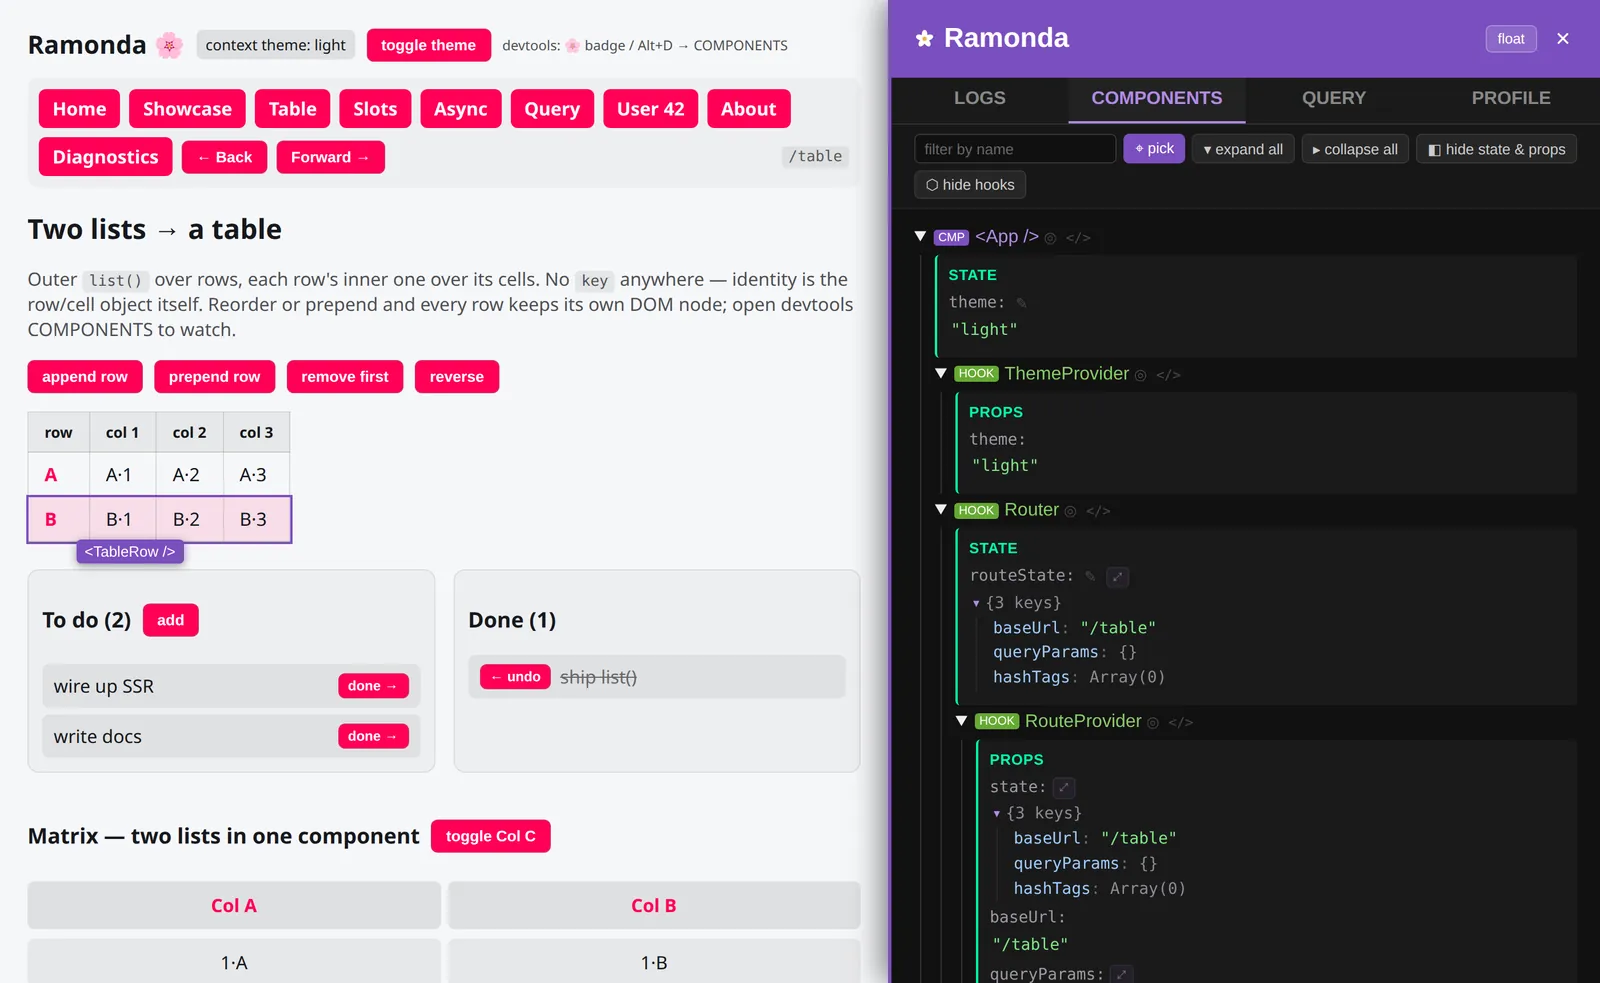
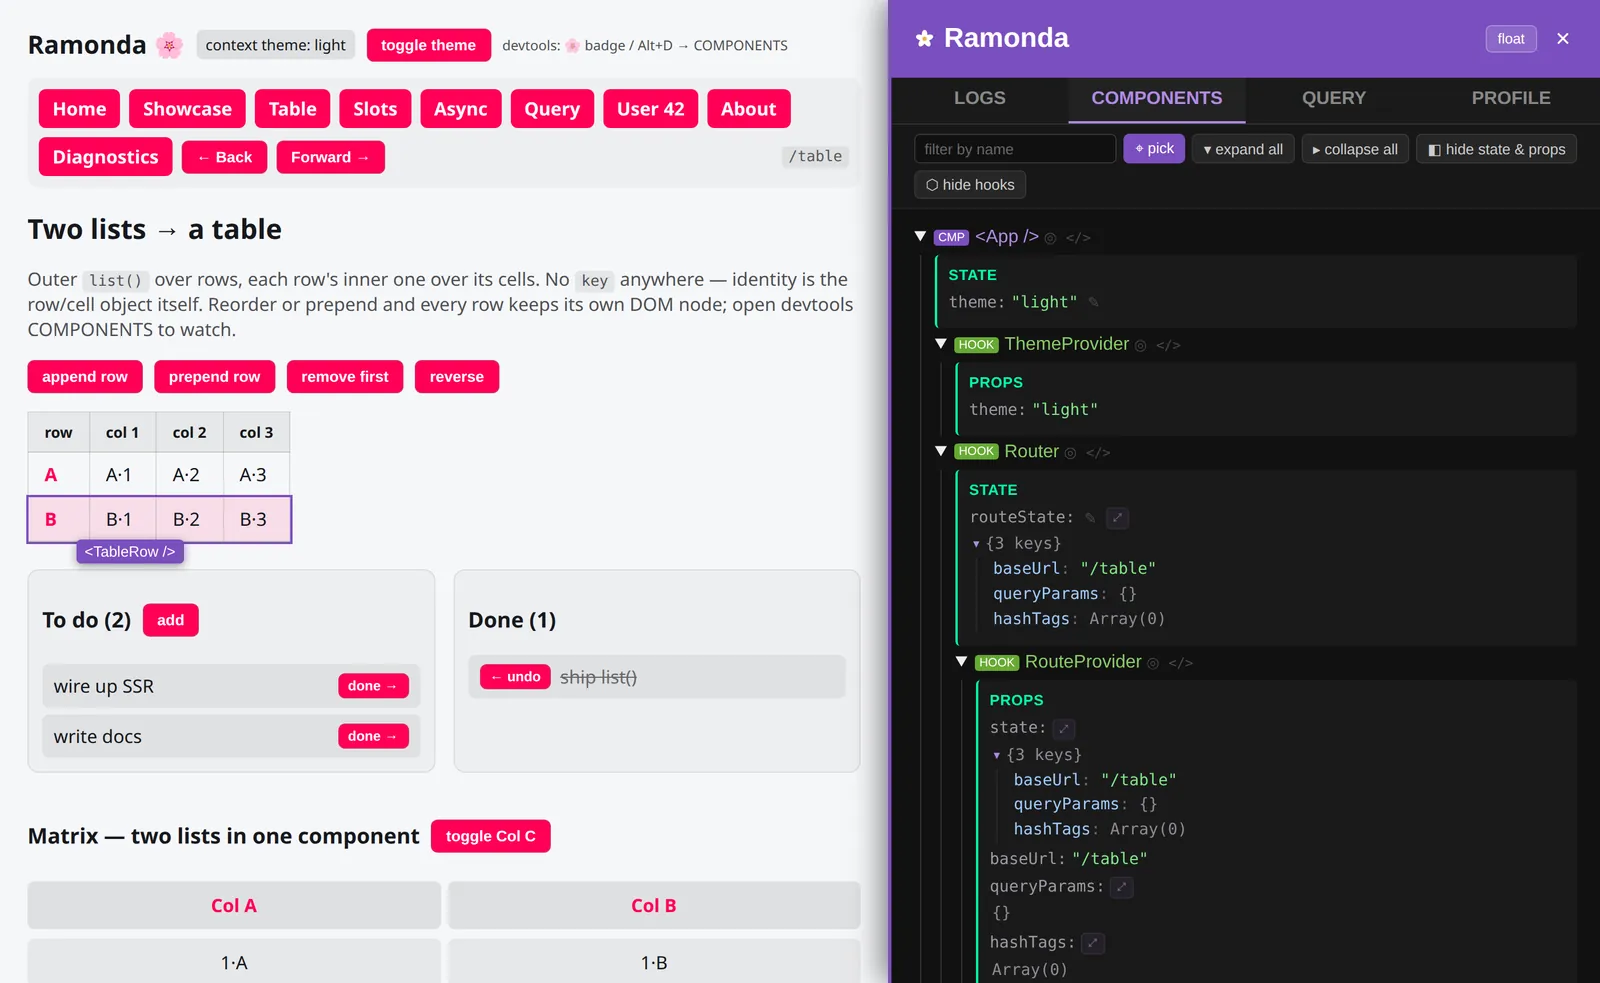
feat(devtools): a value the tree cannot open sits on one line with its key
Reported: a plain key and value looked odd. It was: every value was a key heading with a block underneath,
which was reasonable while every value was a tree and read as twelve rows for six fields once most of them
were `3` and `"ada"`.

The test is not "is it a primitive" but does the TREE render it as a leaf — the same question the row is
asking, since only an array or a plain object gets a disclosure and children. The first version asked
about primitives and left `client: QueryClient` on two lines for a one-word value, which is the shape the
change was fixing; a Date, a Map, a function and a class instance are all one line now.

`.sv` stays in both shapes, because it is what the value-patch path looks up by id and what the editor
replaces — only where it sits changes, and there is a test that patches and edits a one-line row to hold
that.

Screenshots regenerated, which is the point of generating them: `npm run shots`, and the pictures on
/devtools match the panel again.

Changed region(s): [[0.5625, 0.3052, 0.75, 1.0]]

diff --git a/packages/devtools/src/index.ts b/packages/devtools/src/index.ts
@@ -152,6 +152,21 @@ const isJsonLike = (value: unknown): boolean => {
   }
 };
 
+/**
+ * Whether a value belongs on one line with its key.
+ *
+ * The test is not "is it a primitive" but **"does the tree render it as a leaf"**, which is the same
+ * question the row is asking: only an array or a plain object gets a disclosure and children, so only
+ * those need a block. A function is `ƒ()`, a `Date` is one line, and a class instance is its name — the
+ * first version of this called those "objects" and gave `client: QueryClient` two lines for a one-word
+ * value, which is the shape the whole change was fixing.
+ */
+const rendersAsLeaf = (value: unknown): boolean => {
+  if (Array.isArray(value)) return false;
+  if (typeof value !== "object" || value === null) return true;
+  return !isPlainRecord(value);
+};
+
 const isPlainRecord = (value: object): boolean => {
   const proto = Object.getPrototypeOf(value);
   return proto === Object.prototype || proto === null;
@@ -707,6 +722,11 @@ class RamondaDevTools extends HTMLElement {
         .state-title { color: #00ffaa; margin-bottom: 4px; font-weight: bold; font-size: 13px;
                        text-transform: uppercase; letter-spacing: .4px; }
         .state-row { margin: 2px 0; }
+        /* One line for a scalar: the value sits with its key, and its buttons follow the value rather
+           than the key, so a row reads key, value, then controls. */
+        .state-row.one-line { display: flex; align-items: baseline; gap: 4px; }
+        .state-row.one-line .sv { max-height: none; overflow: visible; padding: 0; min-width: 0; }
+        .state-row.one-line .jv-row { display: inline; }
         .state-head { display: flex; gap: 4px; align-items: center; }
         .state-row .sk { color: #9a9aa2; flex-shrink: 0; font-family: ui-monospace, Menlo, monospace;
                          font-size: 14px; }
@@ -2176,13 +2196,29 @@ class RamondaDevTools extends HTMLElement {
             )}" data-edit-vid="${escapeHtml(vid)}" title="edit ${escapeHtml(k)}">✎</button>`
           : "";
 
-        return `<div class="state-row">
-          <div class="state-head"><span class="sk">${escapeHtml(k)}:</span>${edit}${this.fullViewButton(
-            vid,
-            value,
-          )}</div>
-          <div class="sv" data-sv="${escapeHtml(vid)}">${renderJsonHtml(value, INLINE)}</div>
-        </div>`;
+        /**
+         * A scalar sits on the SAME line as its key; only a container gets a block of its own.
+         *
+         * Every value used to be a heading with a body underneath, which was reasonable while every
+         * value was a tree and looked wrong the moment most of them were `3` and `"ada"` — two lines
+         * each, and a state block of six fields reading as twelve rows of mostly nothing.
+         *
+         * The `.sv` element stays in both shapes, because it is what the patch path looks up by id and
+         * what an editor replaces — only where it sits changes.
+         */
+        const inline = rendersAsLeaf(value);
+        const buttons = `${edit}${this.fullViewButton(vid, value)}`;
+
+        return inline
+          ? `<div class="state-row one-line">
+              <span class="sk">${escapeHtml(k)}:</span>
+              <span class="sv" data-sv="${escapeHtml(vid)}">${renderJsonHtml(value, INLINE)}</span>
+              ${buttons}
+            </div>`
+          : `<div class="state-row">
+              <div class="state-head"><span class="sk">${escapeHtml(k)}:</span>${buttons}</div>
+              <div class="sv" data-sv="${escapeHtml(vid)}">${renderJsonHtml(value, INLINE)}</div>
+            </div>`;
       })
       .join("");
     const titleHtml = title ? `<div class="state-title">${title}</div>` : "";

diff --git a/packages/devtools/src/__tests__/panel.test.ts b/packages/devtools/src/__tests__/panel.test.ts
@@ -1951,3 +1951,69 @@ describe("the profiler tab", () => {
     }
   });
 });
+
+describe("how a row is laid out", () => {
+  const rowFor = (panel: Panel, key: string) =>
+    Array.from(panel.shadowRoot.querySelectorAll(".state-row")).find((row) =>
+      row.querySelector(".sk")?.textContent?.startsWith(`${key}:`),
+    ) as HTMLElement;
+
+  /**
+   * Every value used to be a key heading with a body underneath, which read as twelve rows for six
+   * fields once most values were `3` and `"ada"`.
+   */
+  it("puts a scalar on one line with its key, and a container in a block", () => {
+    const panel = mount(() => [
+      node("App", "component", {
+        state: { count: 3, name: "ada", ready: true, missing: null, items: [1, 2], user: { id: 1 } },
+      }),
+    ]);
+
+    for (const key of ["count", "name", "ready", "missing"]) {
+      const row = rowFor(panel, key);
+      expect(row.classList.contains("one-line"), `${key} should be on one line`).toBe(true);
+      // The value element is a SIBLING of the key, not in a block below it.
+      expect(row.querySelector(".state-head")).toBe(null);
+      expect(row.querySelector(".sv")).not.toBe(null);
+    }
+
+    for (const key of ["items", "user"]) {
+      const row = rowFor(panel, key);
+      expect(row.classList.contains("one-line"), `${key} should keep its block`).toBe(false);
+      expect(row.querySelector(".state-head")).not.toBe(null);
+    }
+  });
+
+  /**
+   * The test is "does the tree render it as a LEAF", not "is it a primitive" — the same question the tree
+   * asks. A class instance shows as its name and a `Date` as one line, so both belong beside their key;
+   * the first version called them objects and gave `client: QueryClient` two lines for a one-word value.
+   */
+  it("puts a value the tree cannot open beside its key too", () => {
+    class QueryClient {}
+    const panel = mount(() => [
+      node("App", "component", {
+        state: { client: new QueryClient(), when: new Date("2020-01-01"), fn: () => 1, map: new Map() },
+      }),
+    ]);
+
+    for (const key of ["client", "when", "fn", "map"]) {
+      expect(rowFor(panel, key).classList.contains("one-line"), `${key} renders as a leaf`).toBe(true);
+    }
+  });
+
+  /** Both shapes keep `.sv`, because that is what the patch path and the editor look up by id. */
+  it("keeps a one-line value patchable and editable", () => {
+    (window as unknown as { __RAMONDA_WRITE__: unknown }).__RAMONDA_WRITE__ = vi.fn(() => "ok");
+    let count = 1;
+    const panel = mount(() => [node("App", "component", { state: { count } })]);
+
+    count = 2;
+    window.dispatchEvent(new CustomEvent("ramonda:tick"));
+    expect(rowFor(panel, "count").querySelector(".sv")!.textContent).toContain("2");
+
+    const pencil = panel.shadowRoot.querySelector("[data-edit-node]") as HTMLElement;
+    pencil.dispatchEvent(new MouseEvent("click", { bubbles: true, cancelable: true }));
+    expect(panel.shadowRoot.querySelector(".edit-input")).not.toBe(null);
+  });
+});
